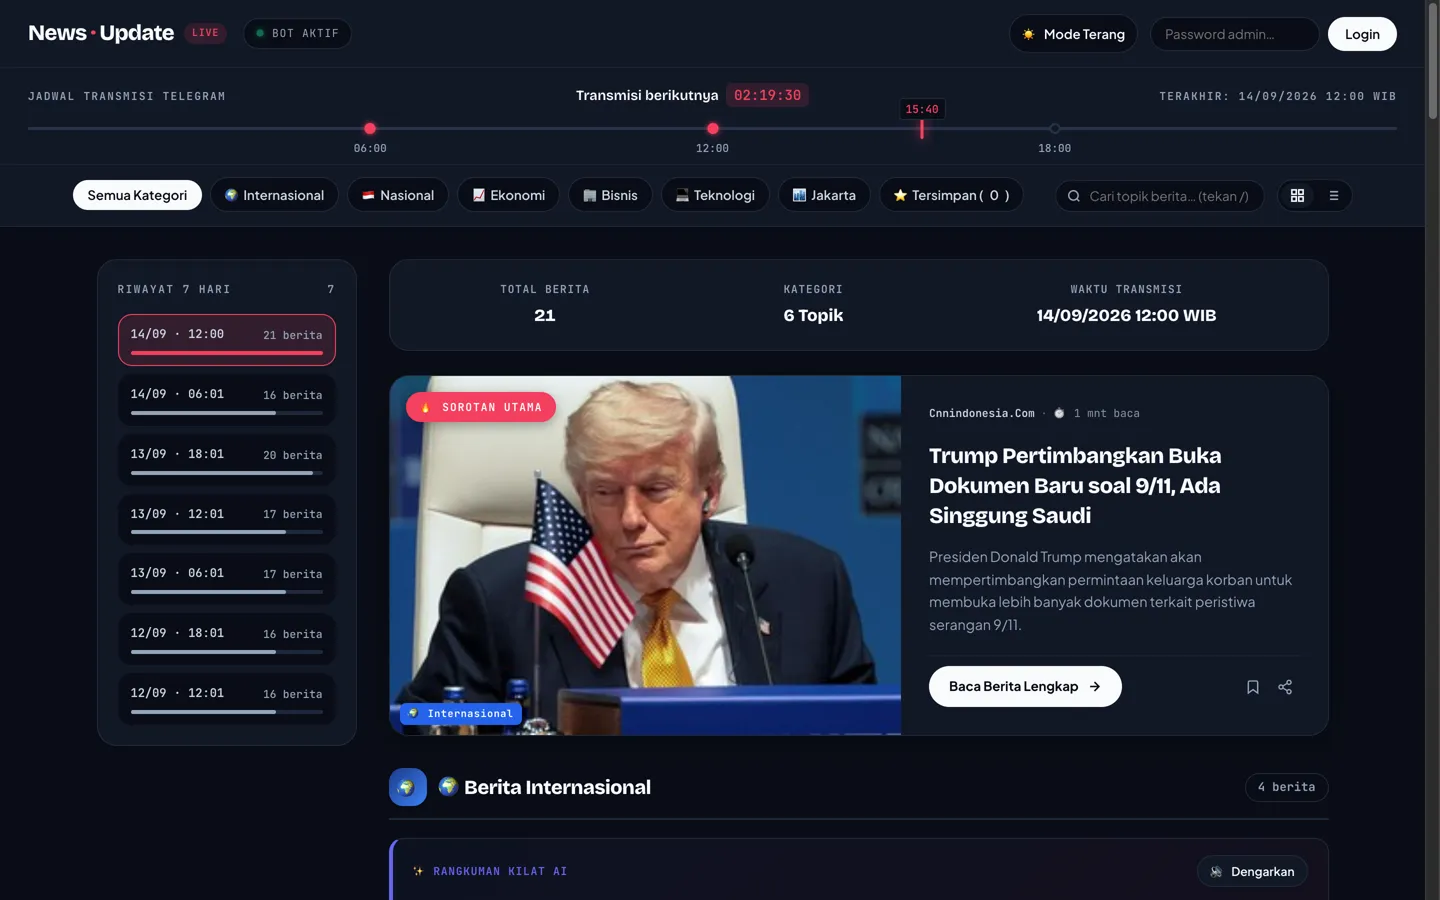
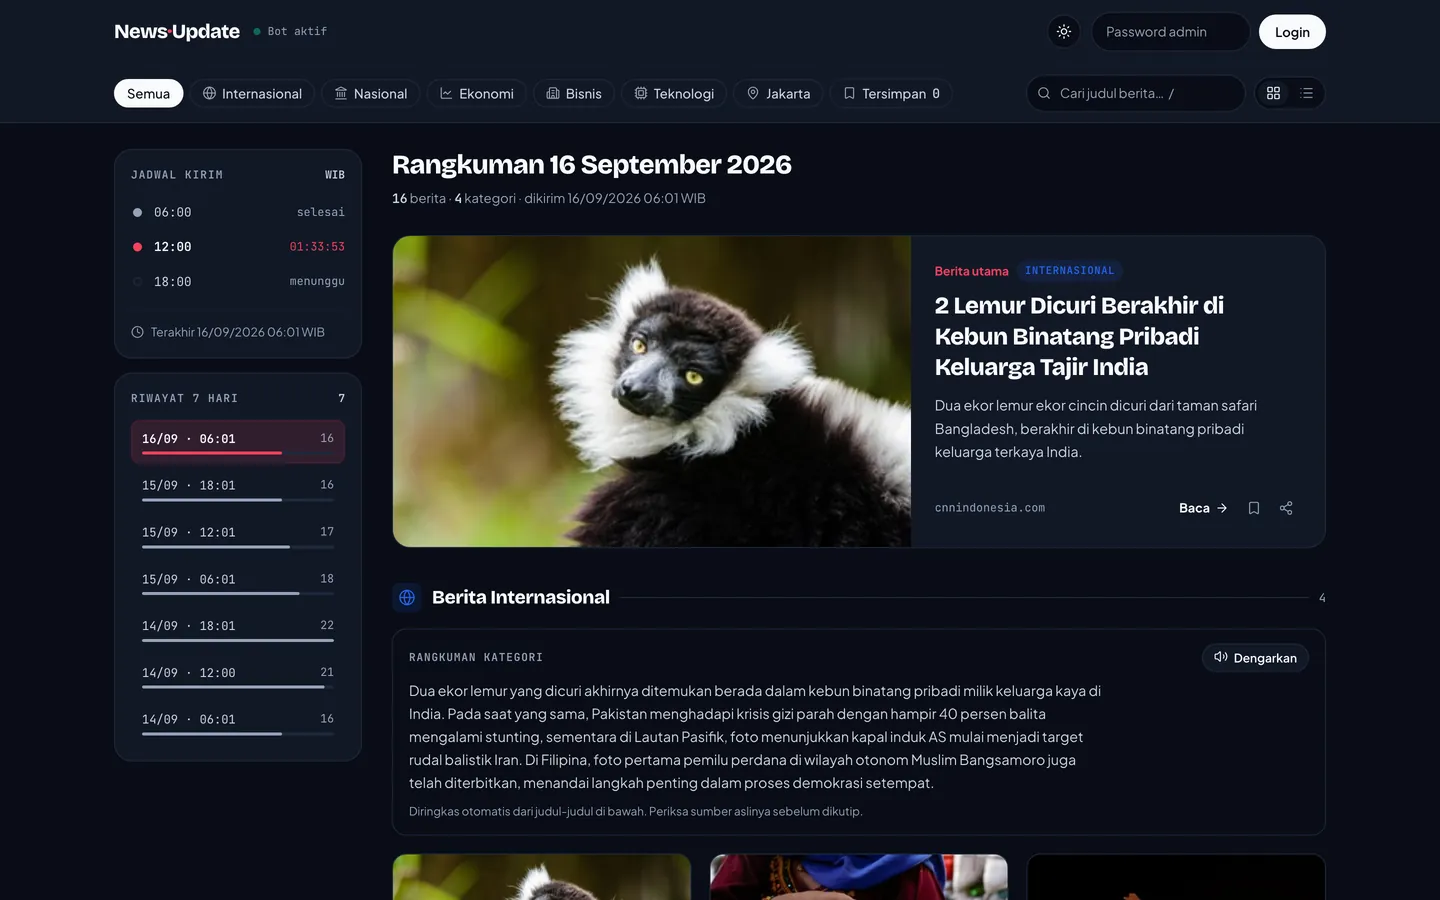
update news

diff --git a/src/sections/Hero.jsx b/src/sections/Hero.jsx
@@ -20,7 +20,7 @@ const SHOTS = [
   {
     src: '/shots/live-news.webp',
     srcSet: '/shots/live-news-720.webp 720w, /shots/live-news.webp 1440w',
-    alt: 'Dashboard News Update menampilkan jadwal transmisi Telegram dan digest terakhir.',
+    alt: 'Dashboard News Update menampilkan jadwal kirim, riwayat 7 hari, dan berita utama digest terakhir.',
   },
   // Dua frame Weblyzer diambil dari rekaman demo di repo-nya, bukan dari
   // sesi terpisah — jadi yang terlihat di hero persis yang terlihat kalau
@@ -40,7 +40,7 @@ const SHOTS = [
   {
     src: '/shots/live-news2.webp',
     srcSet: '/shots/live-news2-720.webp 720w, /shots/live-news2.webp 1440w',
-    alt: 'News Update: daftar berita per kategori hasil ringkasan model AI.',
+    alt: 'News Update: rangkuman kategori hasil model AI di atas kartu-kartu berita bergambar.',
   },
   {
     src: '/shots/live-weblyzer2.webp',

diff --git a/src/sections/Projects.jsx b/src/sections/Projects.jsx
@@ -32,7 +32,7 @@ const shots = {
     srcSet: '/shots/live-news-720.webp 720w, /shots/live-news.webp 1440w',
     width: 1440,
     height: 900,
-    alt: 'Dashboard News Update: jadwal transmisi Telegram dan digest berita terakhir.',
+    alt: 'Dashboard News Update: jadwal kirim, riwayat 7 hari, dan berita utama digest terakhir.',
   },
   // Satu-satunya record yang memakai video, karena yang dibuktikan di sini
   // adalah alurnya: tambah situs → scan → buka temuan → unduh Excel. Gambar
